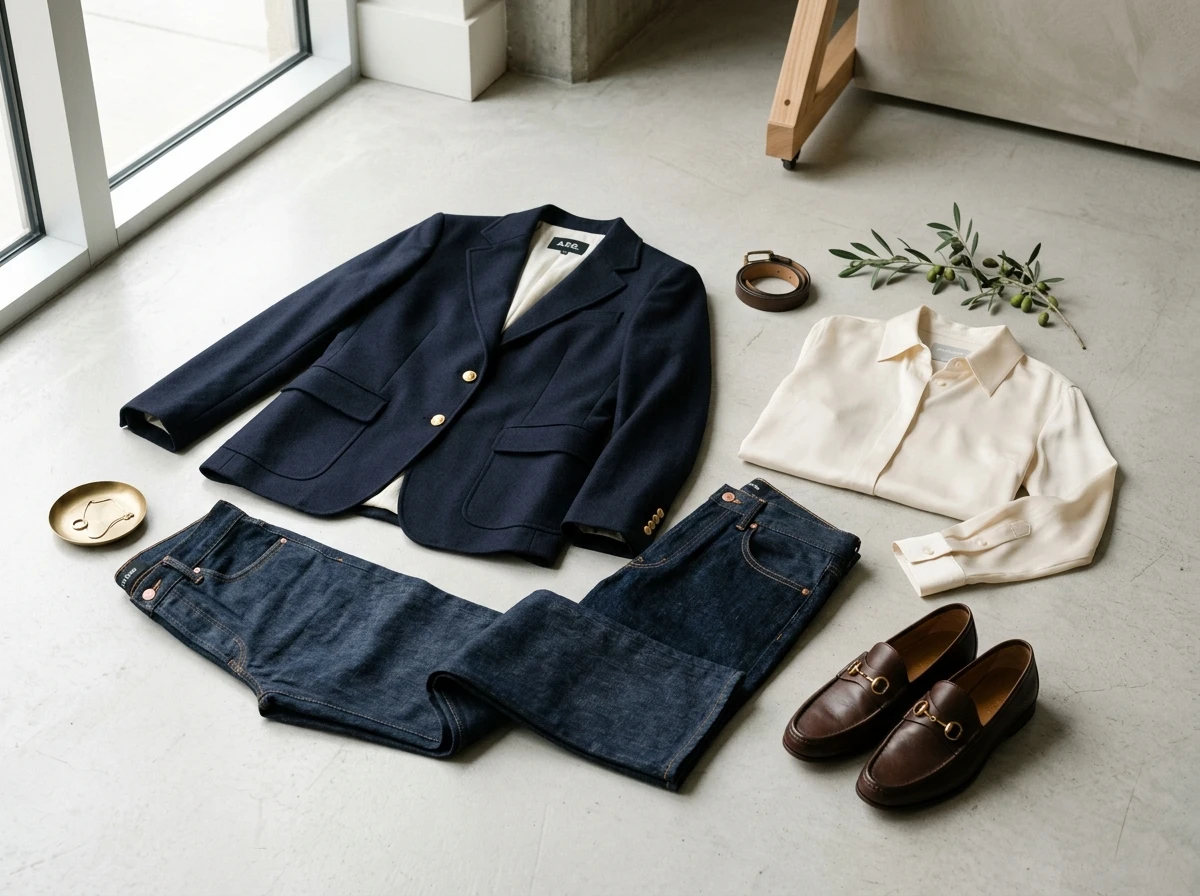
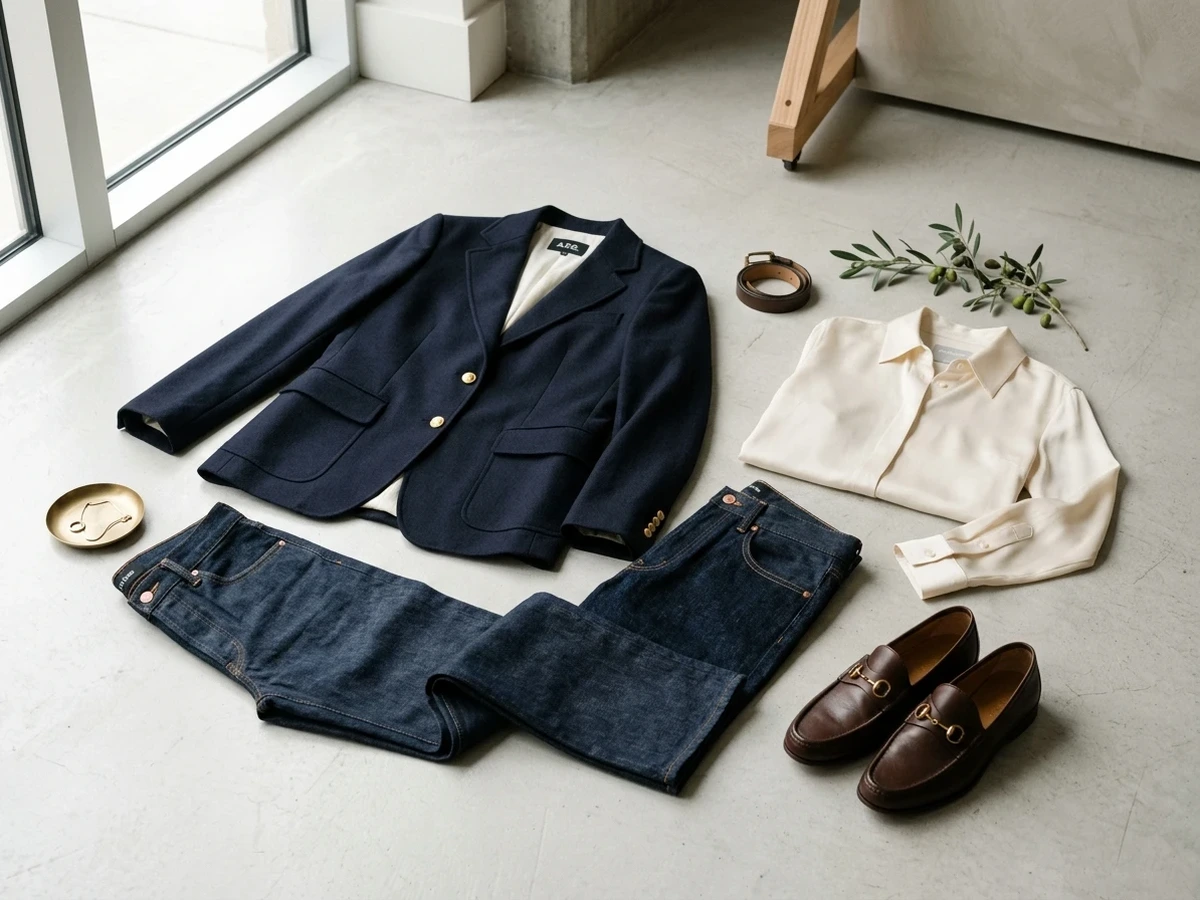
fix: standardize hero WebP aspect ratios to exact 1200x900 and implement 3-layer z-index crossfade with .previous class

diff --git a/style.css b/style.css
@@ -510,16 +510,23 @@ section {
   height: 100%;
   object-fit: cover;
   opacity: 0;
-  transform: scale(1.03);
-  transition: opacity 1s ease-in-out, transform 1s ease-in-out;
+  transform: scale(1.04);
+  transition: opacity 1s cubic-bezier(0.4, 0, 0.2, 1), transform 1s ease-in-out;
   pointer-events: none;
   z-index: 1;
+}
+
+.hero-stage-img.previous {
+  opacity: 1;
+  transform: scale(1);
+  z-index: 2;
+  transition: none; /* Stay visible steadily while active fades over top */
 }
 
 .hero-stage-img.active {
   opacity: 1;
   transform: scale(1);
-  z-index: 2;
+  z-index: 3;
 }
 
 /* 3-State Stage Indicator Bar */

diff --git a/script.js b/script.js
@@ -204,12 +204,14 @@ function initHeroStoryteller() {
   const stageDurations = [3500, 3500, 4500]; // 3.5s Colours, 3.5s Wardrobe, 4.5s Outfit
 
   const setHeroStage = (index) => {
+    const prevIndex = currentHeroStage;
     currentHeroStage = index;
     heroImages.forEach((img, i) => {
+      img.classList.remove('active', 'previous');
       if (i === index) {
         img.classList.add('active');
-      } else {
-        img.classList.remove('active');
+      } else if (i === prevIndex) {
+        img.classList.add('previous');
       }
     });
     heroChips.forEach((chip, i) => {
